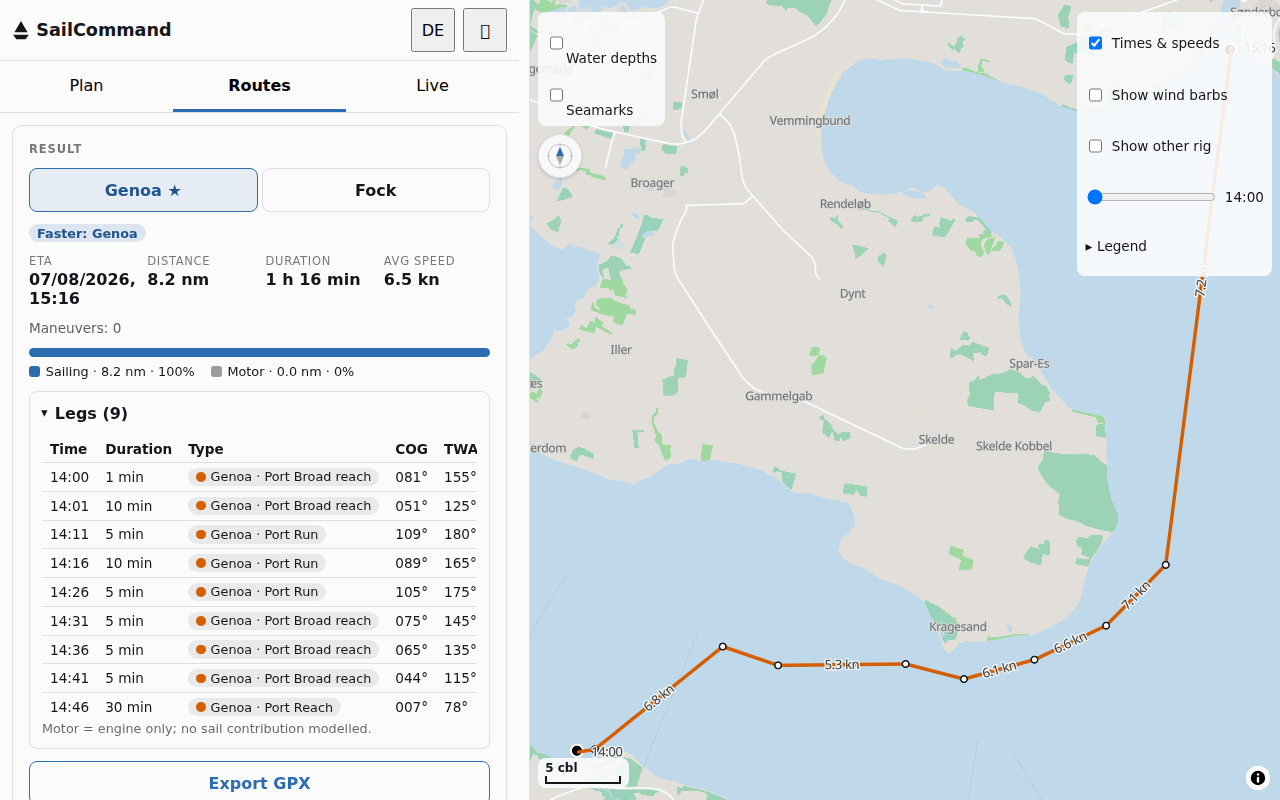
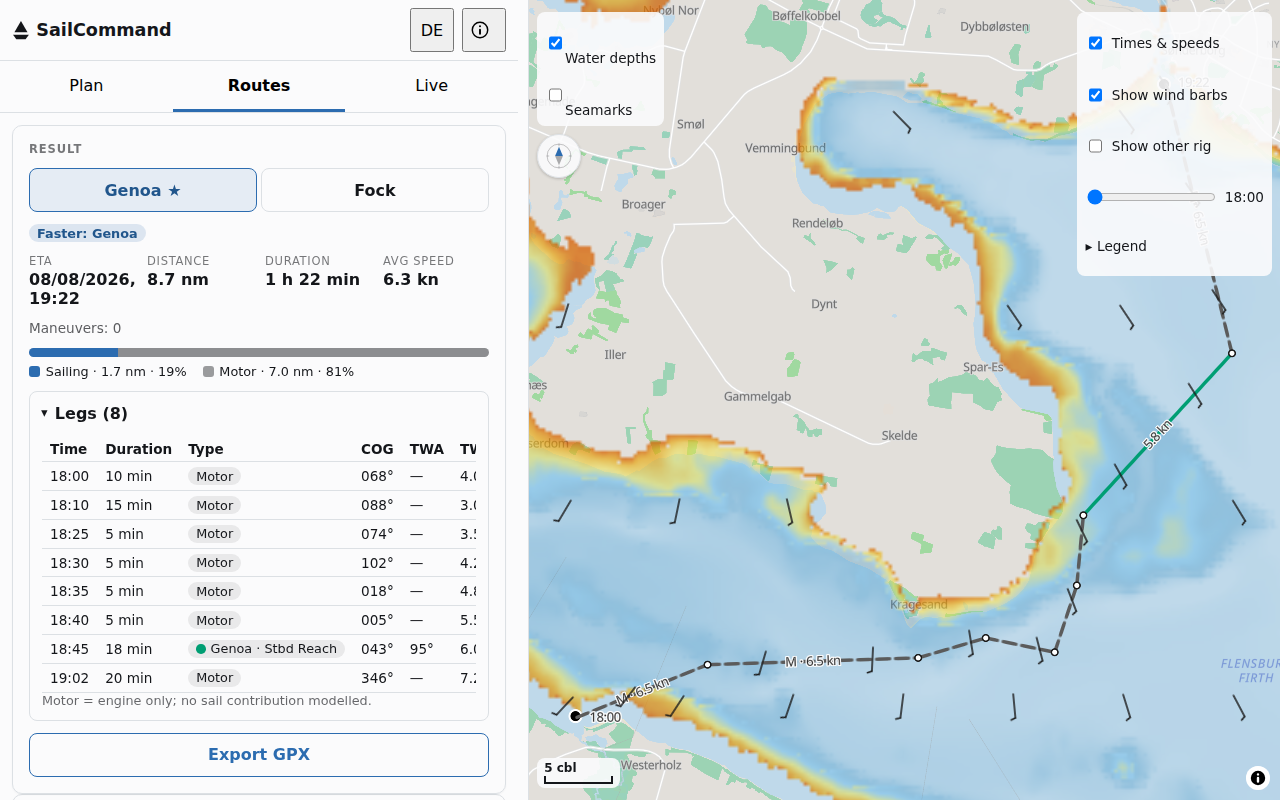
docs: fix wave — replace stale plan-route.png, add missing #432 cite
docs/screenshots/plan-route.png showed the About button as an empty
box — the literal U+24D8 tofu that this release fixes. Replaced with a
fresh capture from the production bundle of develop@e45c51d (entry
chunk assets/index-C58apLAn.js, About version v0.10.0-51-ge45c51d),
1280x800, English UI, panel width 518px (PR #431), departure
2026-08-08T18:00 chosen so the rig comparison resolves to a decided
Genoa recommendation instead of today's default-departure tie, so the
image matches what README.md's alt text already promises. Refs #427.

CHANGELOG.md's #432 bullet was missing its issue citation — every
sibling bullet in the [0.11.0] section ends with one. Appended
"(#432)" to its final sentence; nothing else in the bullet changed.
Refs #432.

Refs #132

diff --git a/CHANGELOG.md b/CHANGELOG.md
@@ -41,7 +41,8 @@ and this project adheres to [Semantic Versioning](https://semver.org/spec/v2.0.0
   now report the real cause of a routing failure too (a timeout, a crashed
   engine, a failed save) rather than collapsing every one of them onto that
   same generic message, and they release the abandoned routing worker so
-  a retry starts from a clean engine instead of stacking onto a busy one.
+  a retry starts from a clean engine instead of stacking onto a busy one
+  (#432).
 - A route-planning failure that used to show the same generic "unexpected
   failure" message and advice for seven unrelated causes — a crashed
   routing engine, a routing timeout, an internal routing error, a save
